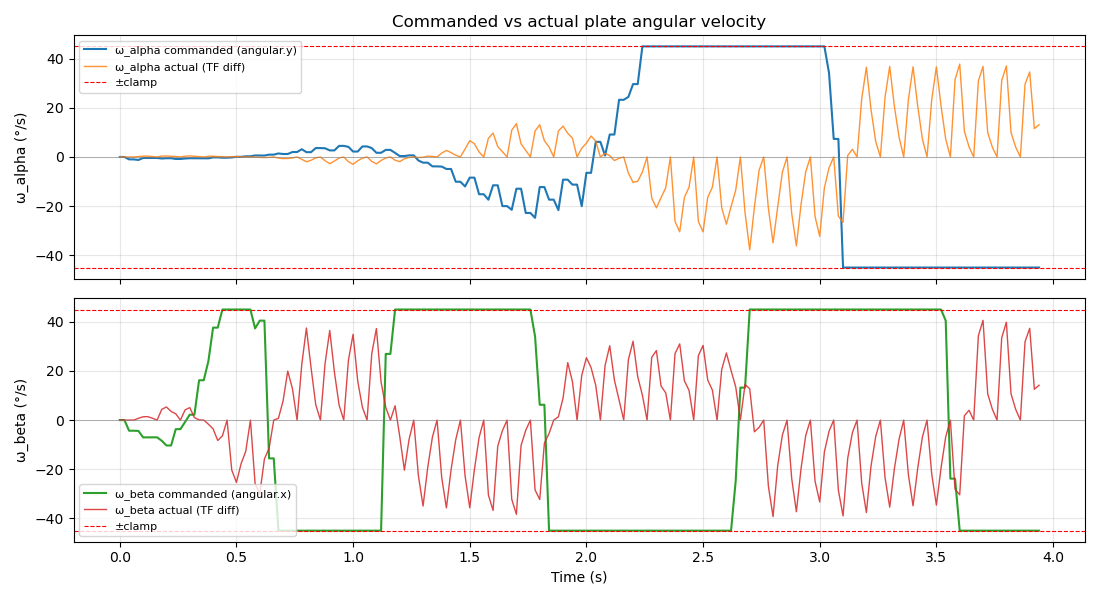
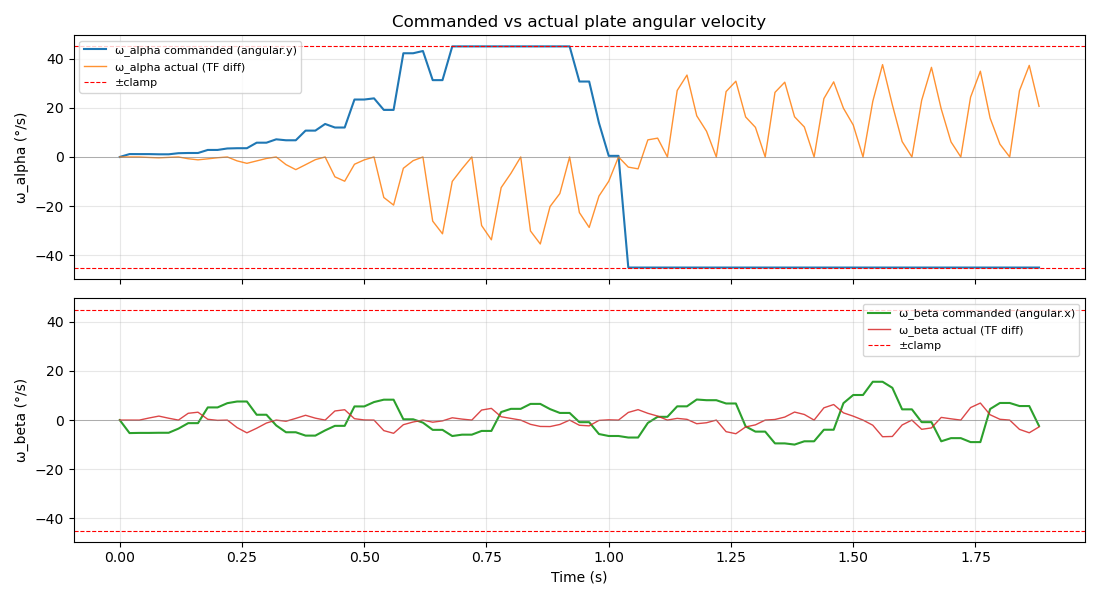
added HAcobina for omega calc performace worse

diff --git a/40_Simulation/ros2_ws/src/marble_balancer/marble_balancer/marble_servo_controller.py b/40_Simulation/ros2_ws/src/marble_balancer/marble_balancer/marble_servo_controller.py
@@ -43,6 +43,31 @@ _LATCHED = QoSProfile(
 )
 
 from marble_balancer.lqr_math import compute_dlqr, DEFAULT_Q, DEFAULT_R, T_ROBOT
+from sensor_msgs.msg import JointState
+
+
+# ── Jacobian: joint child-link frames (all joints rotate about local Z) ───────
+_JOINT_FRAMES = [
+    'shoulder_link',    # shoulder_pan_joint
+    'upper_arm_link',   # shoulder_lift_joint
+    'forearm_link',     # elbow_joint
+    'wrist_1_link',     # wrist_1_joint
+    'wrist_2_link',     # wrist_2_joint
+    'wrist_3_link',     # wrist_3_joint
+]
+_JOINT_NAMES = [
+    'shoulder_pan_joint', 'shoulder_lift_joint', 'elbow_joint',
+    'wrist_1_joint', 'wrist_2_joint', 'wrist_3_joint',
+]
+
+
+def _quat_to_rot(qx, qy, qz, qw) -> np.ndarray:
+    """Quaternion → 3×3 rotation matrix."""
+    return np.array([
+        [1-2*(qy*qy+qz*qz),   2*(qx*qy-qz*qw),   2*(qx*qz+qy*qw)],
+        [  2*(qx*qy+qz*qw), 1-2*(qx*qx+qz*qz),   2*(qy*qz-qx*qw)],
+        [  2*(qx*qz-qy*qw),   2*(qy*qz+qx*qw), 1-2*(qx*qx+qy*qy)],
+    ])
 
 
 # ── Tunable parameters ────────────────────────────────────────────────────────
@@ -88,11 +113,16 @@ class MarbleServoController(Node):
         # State: [x, vx, y, vy, alpha, omega_alpha, beta, omega_beta]
         self._state = np.zeros(8)
 
-        # Internal PT1 estimate of actual omega (updated every control tick)
-        self._omega_alpha_est = 0.0
-        self._omega_beta_est  = 0.0
+        # Actual plate angular velocity from Jacobian + joint_states (rad/s)
+        self._omega_alpha_actual = 0.0   # pitch rate (α̇, world Y-axis)
+        self._omega_beta_actual  = 0.0   # roll rate  (β̇, world X-axis)
 
-        # Last command sent (for PT1 propagation in control loop)
+        # Joint velocities computed from position differentiation
+        self._q_dot      = np.zeros(6)
+        self._q_prev     = None          # previous joint positions
+        self._q_prev_t   = None          # timestamp of previous sample
+
+        # Last command sent (kept for PT1 reference in lqr_math but not used in state)
         self._u_prev = np.zeros(2)
 
         # ── TF ────────────────────────────────────────────────────────────────
@@ -110,6 +140,8 @@ class MarbleServoController(Node):
         # ── Publishers / subscribers ──────────────────────────────────────────
         self._twist_pub = self.create_publisher(
             TwistStamped, '/servo_node/delta_twist_cmds', 10)
+        self._plate_omega_pub = self.create_publisher(
+            TwistStamped, '/marble/plate_omega', 10)
         self._fell_off_pub = self.create_publisher(
             Empty, '/marble/fell_off', _LATCHED)
         self._landed_pub = self.create_publisher(
@@ -117,6 +149,8 @@ class MarbleServoController(Node):
 
         self._odom_sub = self.create_subscription(
             Odometry, '/marble/odom', self._odom_cb, 10)
+        self._js_sub = self.create_subscription(
+            JointState, '/joint_states', self._js_cb, 10)
 
         self._timer = self.create_timer(dt, self._control_cb)
 
@@ -157,6 +191,50 @@ class MarbleServoController(Node):
                 lambda f: self.get_logger().info('MoveIt Servo stopped.'))
         else:
             self.get_logger().warn('stop_servo service not available.')
+
+    def _js_cb(self, msg: JointState):
+        """Compute joint velocities from position differentiation, then publish plate omega."""
+        pos_map = dict(zip(msg.name, msg.position))
+        q_new = np.array([pos_map.get(j, 0.0) for j in _JOINT_NAMES])
+        t_new = msg.header.stamp.sec + msg.header.stamp.nanosec * 1e-9
+
+        if self._q_prev is not None:
+            dt = t_new - self._q_prev_t
+            if 0.0 < dt < 0.5:
+                self._q_dot = (q_new - self._q_prev) / dt
+        self._q_prev   = q_new
+        self._q_prev_t = t_new
+        omega = self._compute_plate_omega()
+        if omega is not None:
+            self._omega_beta_actual  = omega[0]   # world X → β̇ (roll rate)
+            self._omega_alpha_actual = omega[1]   # world Y → α̇ (pitch rate)
+            om_msg = TwistStamped()
+            om_msg.header.stamp    = msg.header.stamp
+            om_msg.header.frame_id = 'world'
+            om_msg.twist.angular.x = float(omega[0])   # β̇  (roll rate)
+            om_msg.twist.angular.y = float(omega[1])   # α̇  (pitch rate)
+            self._plate_omega_pub.publish(om_msg)
+
+    def _compute_plate_omega(self):
+        """
+        Build the 3×6 rotational Jacobian from TF and multiply by q_dot.
+        Each column = Z-axis of the joint's child-link frame in world frame,
+        because every UR5e joint rotates about its local Z axis.
+        Returns [ω_x, ω_y, ω_z] in world frame, or None if TF not ready.
+        """
+        J_rot = np.zeros((3, 6))
+        for i, frame in enumerate(_JOINT_FRAMES):
+            try:
+                tf = self._tf_buffer.lookup_transform(
+                    'world', frame, rclpy.time.Time())
+            except (tf2_ros.LookupException,
+                    tf2_ros.ConnectivityException,
+                    tf2_ros.ExtrapolationException):
+                return None
+            q = tf.transform.rotation
+            R = _quat_to_rot(q.x, q.y, q.z, q.w)
+            J_rot[:, i] = R[:, 2]   # Z-column = joint rotation axis in world frame
+        return J_rot @ self._q_dot
 
     def _get_plate_tf(self):
         """Return (plate_tf, plate_top_z) or (None, None)."""
@@ -203,19 +281,19 @@ class MarbleServoController(Node):
         alpha = pitch
         beta  = roll
 
-        # Fill state — omega comes from internal PT1 estimate (updated in control_cb)
+        # Fill state — omegas from Jacobian + joint_states (actual, not estimated)
         self._state[4] = alpha
-        self._state[5] = self._omega_alpha_est
+        self._state[5] = self._omega_alpha_actual
         self._state[6] = beta
-        self._state[7] = self._omega_beta_est
+        self._state[7] = self._omega_beta_actual
 
         if self._landed:
             self.get_logger().info(
                 f'err x:{self._state[0]:+.4f} y:{self._state[2]:+.4f}  '
                 f'vx:{self._state[1]:+.4f} vy:{self._state[3]:+.4f}  '
                 f'α:{np.rad2deg(alpha):+.2f}° β:{np.rad2deg(beta):+.2f}°  '
-                f'ωα:{np.rad2deg(self._omega_alpha_est):+.2f}°/s '
-                f'ωβ:{np.rad2deg(self._omega_beta_est):+.2f}°/s',
+                f'ωα:{np.rad2deg(self._omega_alpha_actual):+.2f}°/s '
+                f'ωβ:{np.rad2deg(self._omega_beta_actual):+.2f}°/s',
                 throttle_duration_sec=0.5)
 
         # Landing detection
@@ -243,9 +321,9 @@ class MarbleServoController(Node):
                 self._landed     = False
                 self._homing     = True
                 self._land_ticks = 0
-                self._omega_alpha_est = 0.0
-                self._omega_beta_est  = 0.0
-                self._u_prev[:]       = 0.0
+                self._omega_alpha_actual = 0.0
+                self._omega_beta_actual  = 0.0
+                self._u_prev[:]          = 0.0
 
                 # Notify plotter to save & plot
                 self._fell_off_pub.publish(Empty())
@@ -275,10 +353,6 @@ class MarbleServoController(Node):
         msg.header.stamp    = self.get_clock().now().to_msg()
         msg.header.frame_id = 'plate_tcp'
 
-        # Always propagate PT1 estimate (even when not active)
-        self._omega_alpha_est += (self._u_prev[0] - self._omega_alpha_est) * self._dt / T_ROBOT
-        self._omega_beta_est  += (self._u_prev[1] - self._omega_beta_est)  * self._dt / T_ROBOT
-
         if not self._landed:
             self._u_prev[:] = 0.0
             if not self._homing:
@@ -288,7 +362,7 @@ class MarbleServoController(Node):
         # LQR: u = -K @ x  →  [omega_alpha_cmd, omega_beta_cmd] in world frame
         u = -self._K @ self._state
         omega_alpha_cmd = float(np.clip(u[0], -MAX_RATE, MAX_RATE))
-        omega_beta_cmd  = -float(np.clip(u[1], -MAX_RATE, MAX_RATE))
+        omega_beta_cmd  = float(np.clip(u[1], -MAX_RATE, MAX_RATE))
 
         # Update PT1 state with the new command
         self._u_prev[0] = omega_alpha_cmd

diff --git a/40_Simulation/ros2_ws/src/marble_balancer/marble_balancer/marble_plotter.py b/40_Simulation/ros2_ws/src/marble_balancer/marble_balancer/marble_plotter.py
@@ -40,10 +40,12 @@ FIELDNAMES = [
     'time',
     'marble_x_rel', 'marble_y_rel', 'marble_z_abs',
     'tcp_x', 'tcp_y', 'tcp_z',
-    'plate_alpha_deg',   # pitch (Y-axis rotation → controls X)
-    'plate_beta_deg',    # roll  (X-axis rotation → controls Y)
-    'cmd_ang_x_deg',     # angular.x sent to Servo (→ ω_beta)
-    'cmd_ang_y_deg',     # angular.y sent to Servo (→ ω_alpha)
+    'plate_alpha_deg',       # pitch (Y-axis rotation → controls X)
+    'plate_beta_deg',        # roll  (X-axis rotation → controls Y)
+    'cmd_ang_x_deg',         # angular.x sent to Servo (→ ω_beta cmd)
+    'cmd_ang_y_deg',         # angular.y sent to Servo (→ ω_alpha cmd)
+    'actual_omega_alpha_deg', # Jacobian ω_alpha from /marble/plate_omega
+    'actual_omega_beta_deg',  # Jacobian ω_beta  from /marble/plate_omega
 ]
 
 
@@ -83,9 +85,9 @@ def plot_from_csv(csv_path: str):
     cmd_x_deg = np.array([r['cmd_ang_x_deg']   for r in rows])   # → ω_beta
     cmd_y_deg = np.array([r['cmd_ang_y_deg']   for r in rows])   # → ω_alpha
 
-    # Actual plate angular velocities via finite differences of TF angles
-    omega_alpha_actual = np.gradient(alpha_deg, t)   # °/s
-    omega_beta_actual  = np.gradient(beta_deg,  t)   # °/s
+    # Actual plate angular velocities from Jacobian (recorded from /marble/plate_omega)
+    omega_alpha_actual = np.array([r['actual_omega_alpha_deg'] for r in rows])
+    omega_beta_actual  = np.array([r['actual_omega_beta_deg']  for r in rows])
 
     # ── Figure 1: Bird's-eye view ─────────────────────────────────────────────
     fig1, ax1 = plt.subplots(figsize=(7, 7))
@@ -119,7 +121,7 @@ def plot_from_csv(csv_path: str):
 
     ax2a.plot(t, cmd_y_deg,          label='ω_alpha commanded (angular.y)',
               color='tab:blue',   lw=1.5)
-    ax2a.plot(t, omega_alpha_actual, label='ω_alpha actual (TF diff)',
+    ax2a.plot(t, omega_alpha_actual, label='ω_alpha actual (Jacobian)',
               color='tab:orange', lw=1.0, alpha=0.85)
     ax2a.axhline( MAX_RATE_DEG, color='red', lw=0.8, ls='--', label='±clamp')
     ax2a.axhline(-MAX_RATE_DEG, color='red', lw=0.8, ls='--')
@@ -131,7 +133,7 @@ def plot_from_csv(csv_path: str):
 
     ax2b.plot(t, cmd_x_deg,         label='ω_beta commanded (angular.x)',
               color='tab:green', lw=1.5)
-    ax2b.plot(t, omega_beta_actual, label='ω_beta actual (TF diff)',
+    ax2b.plot(t, omega_beta_actual, label='ω_beta actual (Jacobian)',
               color='tab:red',   lw=1.0, alpha=0.85)
     ax2b.axhline( MAX_RATE_DEG, color='red', lw=0.8, ls='--', label='±clamp')
     ax2b.axhline(-MAX_RATE_DEG, color='red', lw=0.8, ls='--')
@@ -207,8 +209,10 @@ def record_node(default_output: Path):
                 Path(self.get_parameter('output').get_parameter_value().string_value))
 
             self._recording_active = False   # only True while marble is on the plate
-            self._cmd_ang_x_deg = 0.0
-            self._cmd_ang_y_deg = 0.0
+            self._cmd_ang_x_deg        = 0.0
+            self._cmd_ang_y_deg        = 0.0
+            self._actual_omega_alpha   = 0.0
+            self._actual_omega_beta    = 0.0
 
             self._tf_buf = tf2_ros.Buffer()
             self._tf_lis = tf2_ros.TransformListener(self._tf_buf, self)
@@ -217,6 +221,8 @@ def record_node(default_output: Path):
                 Odometry, '/marble/odom', self._odom_cb, 10)
             self.create_subscription(
                 TwistStamped, '/servo_node/delta_twist_cmds', self._cmd_cb, 10)
+            self.create_subscription(
+                TwistStamped, '/marble/plate_omega', self._omega_cb, 10)
             self.create_subscription(
                 Empty, '/marble/landed',   self._landed_cb,   _LATCHED)
             self.create_subscription(
@@ -272,6 +278,10 @@ def record_node(default_output: Path):
             self._cmd_ang_x_deg = math.degrees(msg.twist.angular.x)
             self._cmd_ang_y_deg = math.degrees(msg.twist.angular.y)
 
+        def _omega_cb(self, msg: TwistStamped):
+            self._actual_omega_alpha = math.degrees(msg.twist.angular.y)  # α̇
+            self._actual_omega_beta  = math.degrees(msg.twist.angular.x)  # β̇
+
         def _odom_cb(self, msg: Odometry):
             if not self._recording_active:
                 return
@@ -299,8 +309,10 @@ def record_node(default_output: Path):
                 'tcp_z':           plate_z,
                 'plate_alpha_deg': math.degrees(pitch),
                 'plate_beta_deg':  math.degrees(roll),
-                'cmd_ang_x_deg':   self._cmd_ang_x_deg,
-                'cmd_ang_y_deg':   self._cmd_ang_y_deg,
+                'cmd_ang_x_deg':         self._cmd_ang_x_deg,
+                'cmd_ang_y_deg':         self._cmd_ang_y_deg,
+                'actual_omega_alpha_deg': self._actual_omega_alpha,
+                'actual_omega_beta_deg':  self._actual_omega_beta,
             })
             self._row_count += 1
 

diff --git a/40_Simulation/ros2_ws/src/marble_balancer/marble_balancer/lqr_math.py b/40_Simulation/ros2_ws/src/marble_balancer/marble_balancer/lqr_math.py
@@ -111,4 +111,4 @@ def compute_dlqr(Q: np.ndarray, R: np.ndarray, dt: float, T: float = T_ROBOT):
 #  Position/velocity errors penalised heavily; angle/rate moderate; inputs = 1
 #  State:   [x, xd, y, yd, alpha, omega_alpha, beta, omega_beta]
 DEFAULT_Q = np.diag([100.0, 100.0, 100.0, 100.0, 5.0, 0.5, 5.0, 0.5])
-DEFAULT_R = np.eye(2) * 0.1
+DEFAULT_R = np.eye(2) * 1.0
